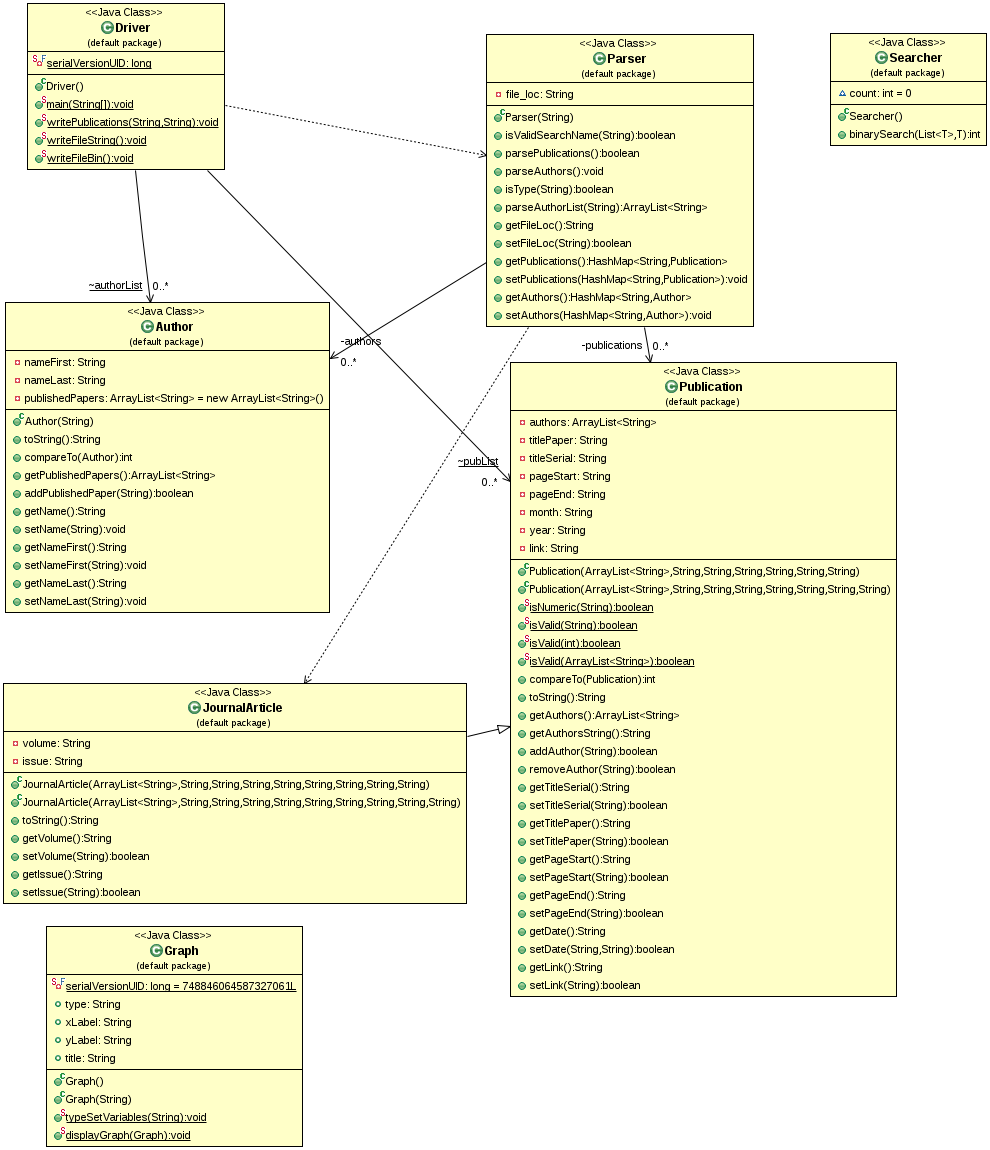
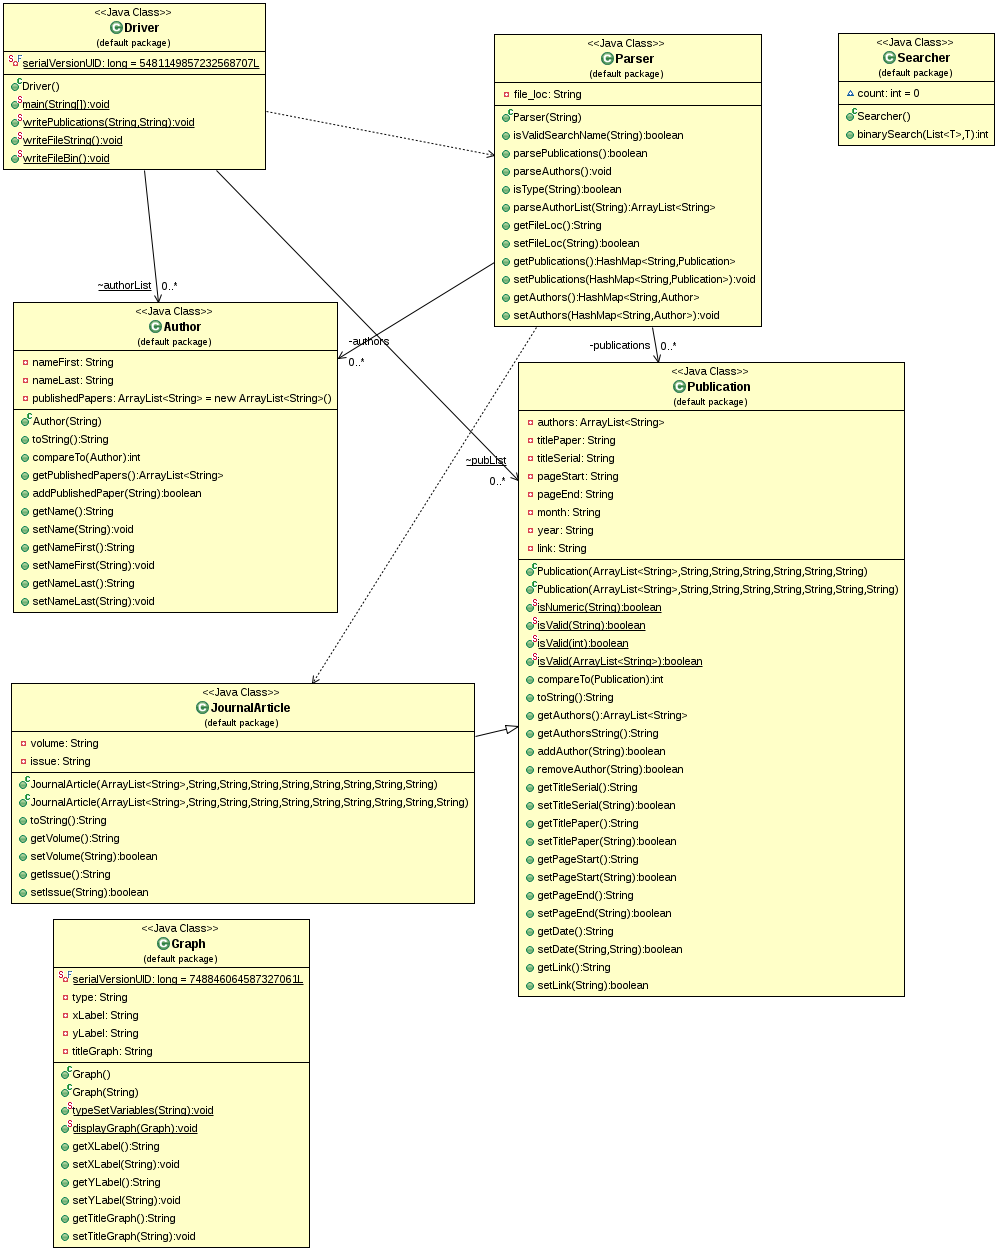
add getters and setters to Graph

diff --git a/Project3/src/Graph.java b/Project3/src/Graph.java
@@ -26,16 +26,16 @@ public class Graph extends JFrame{
 	/**
 	 * the title of the graph
 	 */
-	private String title;
+	private String titleGraph;
 
 	/**
 	 * Default Graph shown at start of program
 	 */
 	public Graph(){
 		this.type = "";
-		this.xLabel = "";
-		this.yLabel = "";
-		this.title = "";
+		this.setXLabel("");
+		this.setYLabel("");
+		this.titleGraph = "";
 	}
 	
 	/**
@@ -66,6 +66,29 @@ public class Graph extends JFrame{
 	public static void displayGraph(Graph graph) {
 		//gui creation here
 	}
-	
+
+	public String getXLabel() {
+		return xLabel;
+	}
+
+	public void setXLabel(String xLabel) {
+		this.xLabel = xLabel;
+	}
+
+	public String getYLabel() {
+		return yLabel;
+	}
+
+	public void setYLabel(String yLabel) {
+		this.yLabel = yLabel;
+	}
+
+	public String getTitleGraph() {
+		return titleGraph;
+	}
+
+	public void setTitleGraph(String titleGraph) {
+		this.titleGraph = titleGraph;
+	}
 	
 }
